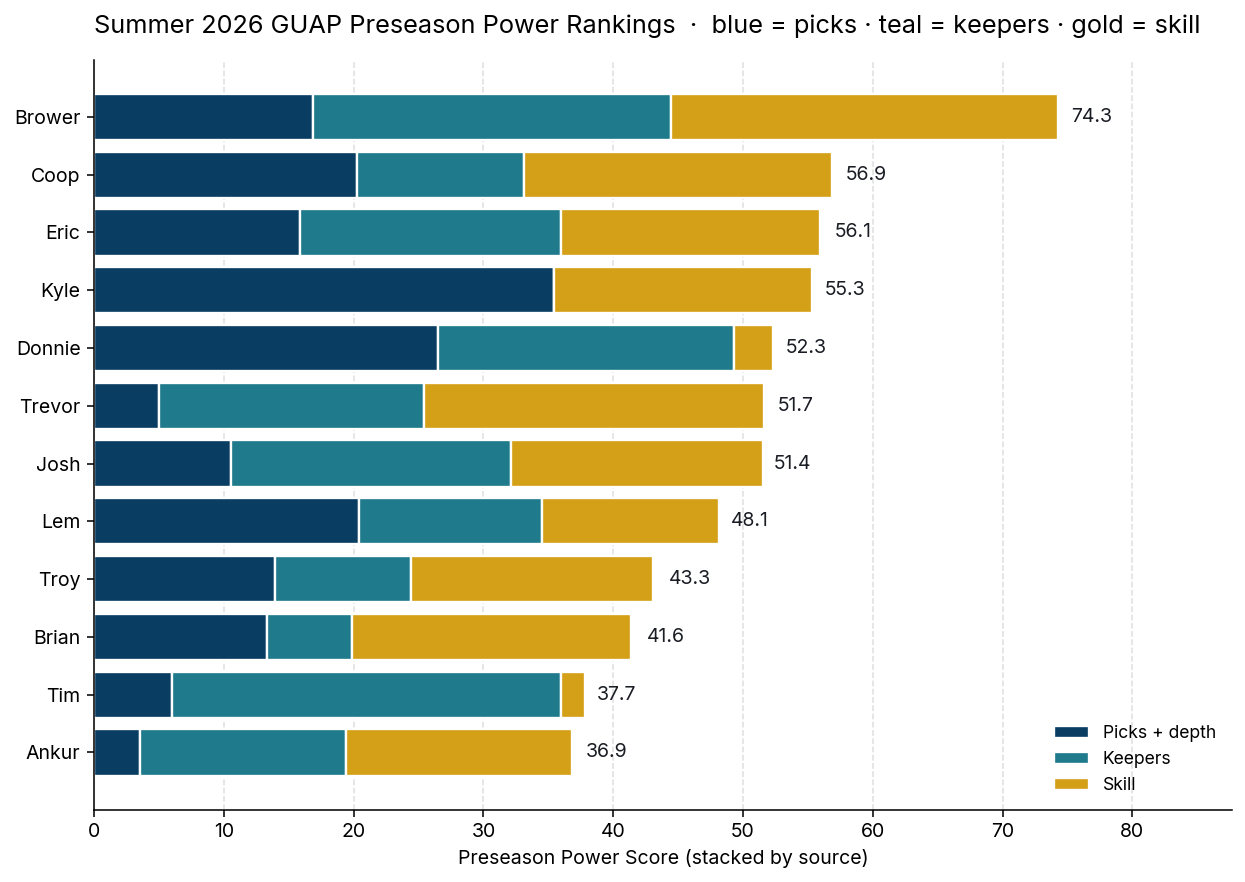
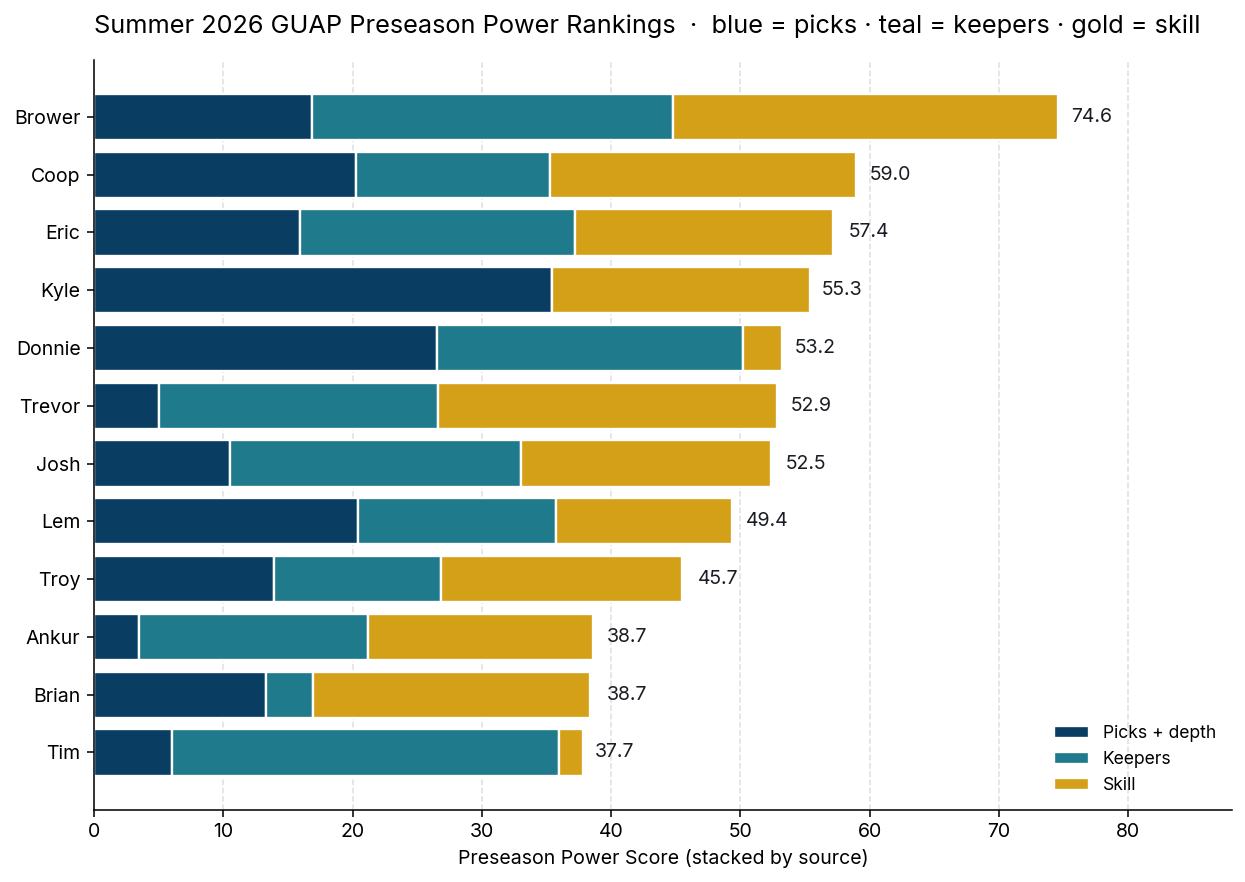
Fix keeper rules: parse xlsx FF2025 comments for 3-year max rule
Sleeper data only marks is_keeper boolean. The xlsx FF2025 sheet has
per-cell comments encoding the actual year of keeping (1st/2nd/3rd
year keeper) — that's the source of truth I forgot we'd established.

Keeper-eligibility for 2026 now correctly excludes:
- Players drafted R1-R2 in 2025
- Players tagged '3rd year keeper' in 2025 xlsx (max 3 years rule)

Example: Brian's Jordan Love (3rd year keeper 2025) is now properly
ineligible. Brian's top-4 keep value drops from 719 to 611.
Also excluded: Geno Smith (Lem), Brock Purdy (Kyle).

diff --git a/scripts/build_preseason_2026.py b/scripts/build_preseason_2026.py
@@ -122,12 +122,53 @@ def _setup_mpl():
     })
 
 
-def compute_keeper_value(top_n=4, min_keeper_round=4):
+def _xlsx_keeper_years_2025():
+    """Parse FF2025 sheet comments → {normalized_player_name: year_of_keeping}.
+
+    Year 3 means 'this is their 3rd year being kept' → CANNOT be kept again
+    in 2026 (3-year max rule).
+    """
+    import openpyxl
+    import re as _re
+    out = {}
+    try:
+        wb = openpyxl.load_workbook(ROOT / "data/historical/MONEY_LEAGUE.xlsx",
+                                     data_only=True)
+        ws = wb["FF2025"]
+        for r in range(1, 18):
+            for c in range(2, 14):
+                cell = ws.cell(r, c)
+                if not (cell.comment and "keeper" in cell.comment.text.lower()):
+                    continue
+                m = _re.search(r"(\d+)(?:st|nd|rd|th)\s*year keeper",
+                               cell.comment.text, _re.IGNORECASE)
+                if not m or not cell.value:
+                    continue
+                year = int(m.group(1))
+                name = _norm(str(cell.value))
+                out[name] = year
+    except Exception:
+        pass
+    return out
+
+
+def _norm(s):
+    import re as _re, unicodedata as _ud
+    s = _ud.normalize("NFKD", s).encode("ascii", "ignore").decode().lower().strip()
+    return _re.sub(r"\s+", " ", _re.sub(r"[^a-z0-9 ]", " ", s)).strip()
+
+
+def compute_keeper_value(top_n=4, min_keeper_round=3):
     """Sum of top-N 2025 fpts per current roster — keeper-eligible asset.
 
-    Filters out players drafted in rounds 1 through (min_keeper_round - 1) of
-    the 2025 draft, since per league rules those can't be kept for 2026.
-    Players acquired off waivers (no 2025 draft pick) are always eligible.
+    Keeper rules applied:
+    1. Max 4 keepers per roster (we take top 4 here).
+    2. Player must have been drafted in 2025 R3 or later (R1/R2 picks
+       can't be kept; the keeper-cost rule means R3 keeper costs your R1).
+       Waiver pickups (no 2025 pick) are eligible.
+    3. Max 3 years as keeper (xlsx FF2025 comments encode current year):
+       anyone tagged '3rd year keeper' in 2025 is ineligible for 2026.
+    4. Player must still be on the manager's end-of-2025 roster.
     """
     LG = "league_1245039290518360064"
     rosters = json.loads((ROOT / "data/sleeper" / LG / "rosters.json").read_text())
@@ -138,12 +179,21 @@ def compute_keeper_value(top_n=4, min_keeper_round=4):
                 if p:
                     ptot[pid] += p
 
-    # Map each 2025-drafted player_id -> draft round
     draft_round = {}
     draft_f = list((ROOT / "data/sleeper" / LG).glob("draft_*_picks.json"))[0]
     for p in json.loads(draft_f.read_text()):
-        if p.get("player_id"):
-            draft_round[p["player_id"]] = int(p["round"])
+        pid = p.get("player_id")
+        if pid:
+            draft_round[pid] = int(p["round"])
+
+    # xlsx-derived: name -> year of keeping in 2025
+    keeper_years = _xlsx_keeper_years_2025()
+
+    # Sleeper player catalog for name lookup
+    catalog = json.loads((ROOT / "data/sleeper/players_nfl.json").read_text())
+    pid_name = {pid: _norm(p.get("full_name") or
+                            f"{p.get('first_name','')} {p.get('last_name','')}")
+                for pid, p in catalog.items()}
 
     rid_to_mid = {m["sleeper_roster_id"]: m["id"]
                   for m in all_managers() if m.get("sleeper_roster_id")}
@@ -153,8 +203,15 @@ def compute_keeper_value(top_n=4, min_keeper_round=4):
         mid = ROSTER_HANDOFFS.get((2025, rid)) or rid_to_mid.get(rid)
         if not mid:
             continue
-        eligible = [pid for pid in (r.get("players") or [])
-                    if draft_round.get(pid, 99) >= min_keeper_round]
+        eligible = []
+        for pid in (r.get("players") or []):
+            rnd = draft_round.get(pid, 99)
+            if rnd < min_keeper_round:
+                continue
+            # 3-year max keeper rule
+            if keeper_years.get(pid_name.get(pid, ""), 0) >= 3:
+                continue
+            eligible.append(pid)
         scored = sorted([(pid, ptot.get(pid, 0)) for pid in eligible],
                          key=lambda x: -x[1])[:top_n]
         out[mid] = {"value": sum(p for _, p in scored), "players": scored}